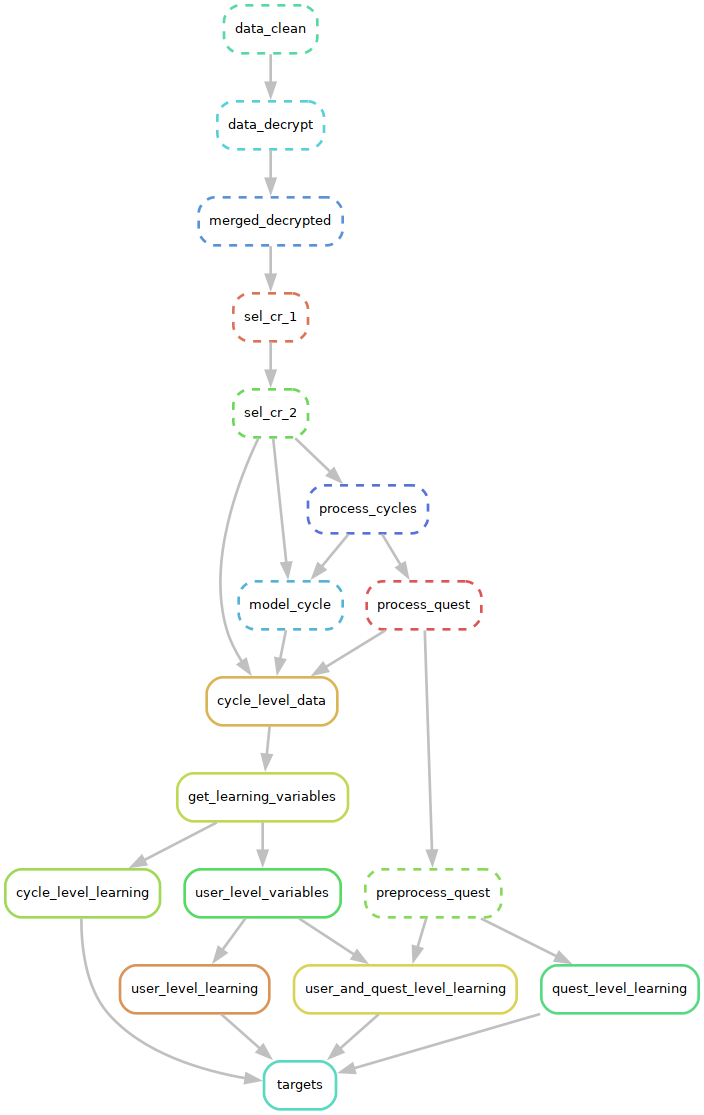
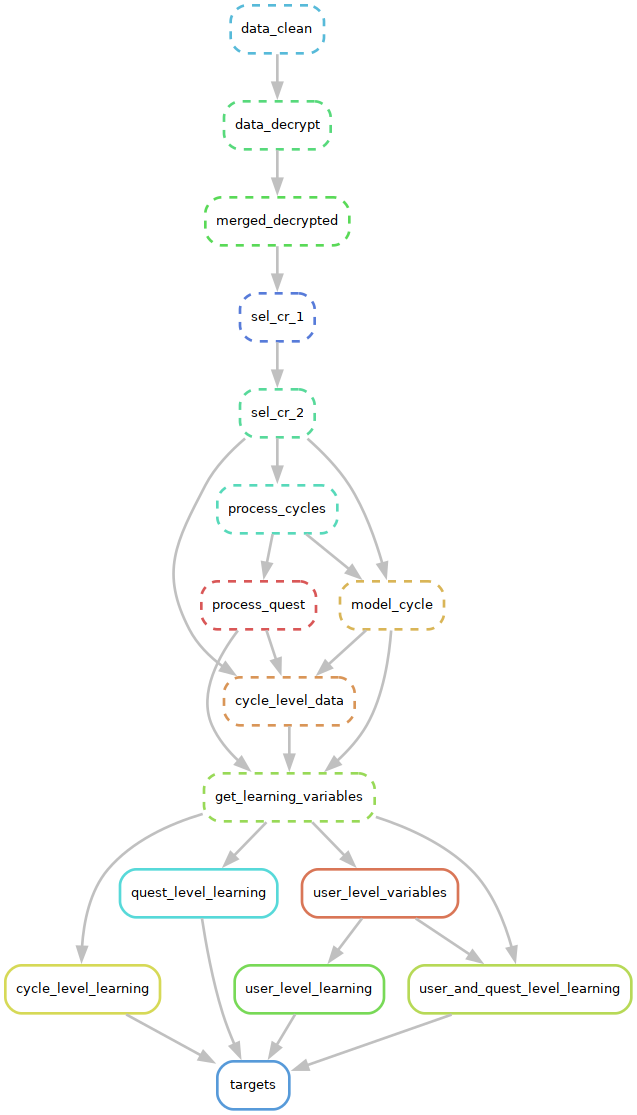
PCOS coding redone

Changed region(s): [[0.0, 0.0, 1.0, 1.0]]

diff --git a/code/learning_variables.py b/code/learning_variables.py
@@ -38,25 +38,29 @@ def the_variables(INPUT_TEMPS, INPUT_QUEST, MODEL_CYCLE, OUTPUT_TEMPS, OUTPUT_QU
 
     logger.info("================User Selection Started==================")
 
-    #1. Users with known PCOS values and temperature data
-    temperatures_pcos = temperatures[temperatures["PCOS"] != 2] 
-    counts = temperatures_pcos["User"].nunique()
-    logger.info(f"Total Users with Questionnaire and Temperature Data: {counts}")
+    #1. Total Users with Questionnaire and Temperature Data
+    temperatures_with_quest = temperatures[temperatures["PCOS"] != 3] 
+    counts = temperatures_with_quest["User"].nunique()
+    logger.info(f"Users with Questionnaire and Temperature Data: {counts}")
     
+    #2. Users with answer to Fertility Question
+    temperatures_pcos = temperatures_with_quest[temperatures_with_quest["PCOS"] != 2] 
+    counts = temperatures_pcos["User"].nunique()
+    logger.info(f"Users with answer to Fertility Question: {counts}")
 
-    #2. Users in model cycle
+    #3. Users in model cycle
     model_users = Frames(MODEL_CYCLE).model_users()
     non_model = temperatures_pcos[~(temperatures_pcos["User"].isin(model_users))]
     counts = non_model["User"].nunique()
     logger.info(f"Non-model Users: {counts}")
     
-    #3. Users with more than 3 Cycles
+    #4. Users with more than 3 Cycles
     more_than_3 = non_model.groupby("User").count()[non_model.groupby("User").count()["Cycle"] > 2]
     more_than_3_list = more_than_3.index.to_list()
     more_than_3_df = non_model[non_model["User"].isin(more_than_3_list)]
     counts = more_than_3_df["User"].nunique()
     logger.info(f"Users with 3 and more cycles: {counts}")
-    counts = more_than_3_df["PCOS"].value_counts()
+    counts = dict(more_than_3_df["PCOS"].value_counts())
     logger.info(f"Cycles Distribution: {counts}")
 
     # dep_and_indep = final_df[[
@@ -65,13 +69,13 @@ def the_variables(INPUT_TEMPS, INPUT_QUEST, MODEL_CYCLE, OUTPUT_TEMPS, OUTPUT_QU
     # "nadir_valid", "peak_valid", "path_length", "warp_degree", "Curve_Length", "Data_Length", "Curve_by_Data", "PCOS"    
     # ]]
 
-    #4. Questionnaire Missingness (first get users with more thna 3 cycles from temps, then get users with less than 3 missing questionnaire varibles 
+    #5. Questionnaire Missingness (first get users with more thna 3 cycles from temps, then get users with less than 3 missing questionnaire varibles 
     # from "BMI", "Regular Smoker", "Age menstration started", "Period in last 3 months", "Regular periods", "Heavy periods", "Painful periods) and preprocessing
 
     df_quest = quest[quest["User ID"].isin(more_than_3_list)][["User ID", "BMI", "Regular Smoker", "Age menstration started", "Period in last 3 months", "Regular periods", \
                                                        "Heavy periods", "Painful periods", "PCOS"]].reset_index(drop = True)
     #missingness in the questionnaire variables
-    df_missingness = preprocess.get_missing(df_quest)
+    df_missingness = preprocess.get_missing(df_quest).reset_index(drop = True)
     
     #preprocessing and defining categories
     df_preprocessed = preprocess.pre_processing_redone(df_missingness)
@@ -81,8 +85,10 @@ def the_variables(INPUT_TEMPS, INPUT_QUEST, MODEL_CYCLE, OUTPUT_TEMPS, OUTPUT_QU
     df_init = df_preprocessed[["User ID", "BMI", "Age menstration started", "PCOS"]]
     final_quest_ml = pd.concat([df_init, dummies], axis = 1)
     final_quest_ml.rename({"User ID":"User"}, axis =1, inplace=True)
-    counts = quest["User"].nunique()
-    logger.info(f"Final users in questionnaire data: {counts}")
+    counts = final_quest_ml["User"].nunique()
+    logger.info(f"Users in questionnaire data after taking out missingness: {counts}")
+    user_counts = dict(final_quest_ml["PCOS"].value_counts())
+    logger.info(f"Final Users Distribution: {user_counts}")
 
     #list cleaned from questionnaire
     quest_list = final_quest_ml["User"].to_list()
@@ -90,16 +96,21 @@ def the_variables(INPUT_TEMPS, INPUT_QUEST, MODEL_CYCLE, OUTPUT_TEMPS, OUTPUT_QU
     # Obtain the questionnare list from the temperature df
     final_temp_df = more_than_3_df[more_than_3_df["User"].isin(quest_list)]
     counts = final_temp_df["User"].nunique()
-    logger.info(f"Final users in temperatures data: {counts}")
-    counts = final_temp_df["PCOS"].value_counts()
-    logger.info(f"Final Cycles Distribution: {counts}")
 
+    logger.info(f"Final users in temperatures data: {counts}")
+    counts = dict(final_temp_df["PCOS"].value_counts())
+    logger.info(f"Final Cycles Distribution: {counts}")
+    logger.info("================User Finished==================")
+
+    #select the independent and non-indepent variables
     dep_and_indep = final_temp_df[[
-    "Data_Length", "Next Cycle Difference", "Cycle Completeness", "max_of_2_periods", "max_pos_of_2_periods", 
-    "max_of_3_periods", "max_pos_of_3_periods", "Change Point Day", "Change Point Mean Diff", "Standard_distance",
-    "path_length_with_diff", "Standard_nadir_day", "Standard_peak_temp", "Standard_nadir_temp_actual",
-    "Standard_peak_temp_actual", "Standard_nadir_to_peak", "Standard_low_to_high_temp", "cost_with_diff", "PCOS"
-    ]] #select the independent and non-indepent variables
+    "User", "Cycle", "Standard_smooth_temps", "Data_Length", "Next Cycle Difference", "Cycle Completeness", "Curve_by_Data", 
+    "max_of_2_periods", "max_pos_of_2_periods", "max_of_3_periods", "max_pos_of_3_periods", 
+    "Change Point Day", "Change Point Mean Diff", 
+    "cost_with_diff", "path_length_with_diff", "Standard_nadir_day", "Standard_peak_day", 
+    "Standard_nadir_temp_actual", "Standard_peak_temp_actual", "Standard_nadir_to_peak", "Standard_low_to_high_temp", 
+    "PCOS"
+    ]]
 
     #Maintain the "Minimum of 3 Cycles per User" rule
     # less_3 = list(dep_and_indep.groupby("User").count()[dep_and_indep.groupby("User").count()["Cycle"] < 3].index)
@@ -112,8 +123,13 @@ def the_variables(INPUT_TEMPS, INPUT_QUEST, MODEL_CYCLE, OUTPUT_TEMPS, OUTPUT_QU
 
     #save the final result
     df_3_cycles.to_csv(OUTPUT_TEMPS, index=False)
-    final_quest_mlto_csv(OUTPUT_QUEST, index=False)
+    logger.info(f"Cycle Level Variables: {OUTPUT_TEMPS}")
+
+    final_quest_ml.to_csv(OUTPUT_QUEST, index=False)
+    logger.info(f"Questionnaire Variables: {OUTPUT_QUEST}")
+
+
 
 if __name__ == "__main__":
     args = parser.parse_args()
-    the_variables(args.input_temps, args.input_quest, args.model_cycle, args.output_file, args.output_quest)
+    the_variables(args.input_temps, args.input_quest, args.model_cycle, args.output_temps, args.output_quest)

diff --git a/variables_learning.py b/variables_learning.py
@@ -7,7 +7,7 @@ class Learning:
         ############################################################################################
     ### For Rule 10 (get_learning_variables) - 
     ### 1. The first input is the file containing the preprocessed data - the output of 
-    ### cycle_level_data (rule 9)
+    ### cycle_level_data (rule 9) i.e. features_dtw_SS.csv
     ### 2. The second input is the cleaned questionnaire data - from Rule 7 (process_questionnaire) i.e df_questionnaire_final.csv
     ### 3. The third input is the output of the model cycle from rule 8 (model_cycle) i.e model_cycle.json                                                                  
     ### 4. The first output file is to save the cycle-level variables
@@ -94,7 +94,7 @@ class Learning:
     }
 
     #rule 11 data
-    cycle_level_learning_input_file = get_learning_variables_output_file
+    cycle_level_learning_input_file = get_learning_variables_output_file_temps
     cycle_level_learning_output_folder = cycle_level_learning_results
     #cycle_level_learning_output_log = cycle_level_learning_output_folder + "log"
     cycle_level_learning_number_of_k_splits = cycle_level_learning_number_of_k_splits
@@ -105,7 +105,7 @@ class Learning:
     }
 
     #rule 12 data
-    user_level_variables_input_file = get_learning_variables_output_file
+    user_level_variables_input_file = get_learning_variables_output_file_temps
     user_level_variables_output = user_level_variables_output
     user_level_variables = {"input_file":user_level_variables_input_file,
                                     "output_file":user_level_variables_output}
@@ -121,18 +121,18 @@ class Learning:
     }
 
     #rule 14 data
-    quest_preprocess_quest = variables.process_quest["output_file_2"]
-    quest_preprocess_model = variables.model_cycle_data["output_file"]
-    quest_preprocess_temps = variables.cycle_level_data["output_file"]
-    quest_preprocessed_output = quest_preprocessed_output
-    preprocess_quest = {"input_quest":quest_preprocess_quest,
-                        "model_cycle":quest_preprocess_model,
-                        "input_temps":quest_preprocess_temps,
-                        "output_file":quest_preprocessed_output
-    }
+    # quest_preprocess_quest = variables.process_quest["output_file_2"]
+    # quest_preprocess_model = variables.model_cycle_data["output_file"]
+    # quest_preprocess_temps = variables.cycle_level_data["output_file"]
+    # quest_preprocessed_output = quest_preprocessed_output
+    # preprocess_quest = {"input_quest":quest_preprocess_quest,
+    #                     "model_cycle":quest_preprocess_model,
+    #                     "input_temps":quest_preprocess_temps,
+    #                     "output_file":quest_preprocessed_output
+    # }
 
     #rule 15 data
-    quest_level_learning_input_file = quest_preprocessed_output
+    quest_level_learning_input_file = get_learning_variables_output_quest
     quest_level_learning_output_folder = quest_level_learning_results
     quest_level_learning_number_of_k_splits = quest_level_learning_number_of_k_splits
     quest_level_learning = {"input_file":quest_level_learning_input_file,
@@ -143,7 +143,7 @@ class Learning:
 
     #rule 16 data
     user_and_quest_level_learning_input_file_1 = user_level_variables_output
-    user_and_quest_level_learning_input_file_2 = quest_preprocessed_output
+    user_and_quest_level_learning_input_file_2 = get_learning_variables_output_quest
     user_and_quest_level_learning_output_folder = user_and_quest_level_learning_results
     user_and_quest_level_learning_number_of_k_splits = user_and_quest_level_learning_number_of_k_splits
     user_and_quest_level_learning = {"input_file_1":user_and_quest_level_learning_input_file_1,

diff --git a/code/classes/classes.py b/code/classes/classes.py
@@ -11,12 +11,23 @@ class Frames:
         
     def recode_pcos(self):
         the_df = self.df
-        for i in range(len(the_df)):
-            if the_df.iloc[i, 678] == "Polycystic Ovarian Syndrome (PCOS)":
-                the_df.iloc[i, 678] = 1
 
+        for i in range(len(the_df)):
+            if (the_df.loc[i, "PCOS"] == "Polycystic Ovarian Syndrome (PCOS)"): # One person indicated PCOS but didnt answer
+                the_df.loc[i, "PCOS"] = 1                                     # "Yes" to infertility
+
+            elif (the_df.loc[i, "Have you ever gone to a doctor because you thought you were infertile?"] == "Yes") \
+            & (the_df.loc[i, "PCOS"] != "Polycystic Ovarian Syndrome (PCOS)"):
+                the_df.loc[i, "PCOS"] = 0 # Those that answered yes to infertility but do not have PCOS
+            
+            elif (the_df.loc[i, "Have you ever gone to a doctor because you thought you were infertile?"] == "No"):
+                the_df.loc[i, "PCOS"] = 0 # Some answered "No" to infertility in the "Yes" column
+                
+            elif (the_df.loc[i, "Unnamed: 676"] == "No"):
+                the_df.loc[i, "PCOS"] = 0 # Those that indicated "No to infertility"
+                
             else:
-                the_df.iloc[i, 678] = 0
+                the_df.loc[i, "PCOS"] = 2 # Those with no response to infertility question
         return the_df
 
     def the_cycles_temp_dates_duration(self):
@@ -93,6 +104,6 @@ class Frames:
         MODEL_LOC_SPLIT = MODEL_CYCLE.split("/")
         MODEL_LOC = "/".join(MODEL_LOC_SPLIT[0:-1])
         MODEL_CYCLES_FILE = os.path.join(MODEL_LOC,"individual_averages.json")
-        MODEL_CYCLES = tools.load_model_cycle(MODEL_CYCLES_FILE)
-        MODEL_USERS = [model[i]["User"] for i, j in enumerate(model)]
-        return (MODEL_CYCLE)
+        THE_MODEL_CYCLES = tools.load_model_cycle(MODEL_CYCLES_FILE)
+        MODEL_USERS = [ THE_MODEL_CYCLES[i]["User"] for i, j in enumerate(THE_MODEL_CYCLES)]
+        return (MODEL_USERS)

diff --git a/code/process_quest.py b/code/process_quest.py
@@ -99,7 +99,7 @@ def process_quest(INPUT, INPUT_CYCLES, OUTPUT, CLEANED_QUEST):
 
     for i in range(len(temp_dates_duration_pcos)):
         if pd.isnull(temp_dates_duration_pcos['PCOS'][i]):
-            temp_dates_duration_pcos.loc[i,'PCOS'] = 2
+            temp_dates_duration_pcos.loc[i,'PCOS'] = 3
     
     #Get Complete cycles
     temp_dates_duration_pcos = tools.cycle_completeness(temp_dates_duration_pcos)

diff --git a/code/questionnaire_variables/preprocess_quest_tools.py b/code/questionnaire_variables/preprocess_quest_tools.py
@@ -19,7 +19,7 @@ def get_missing(df):
             pd.isnull(df_values.loc[i,j]):
                 count+=1
         df_values.loc[i,"Missing"] = count
-    df_values = df_values[df_values["Missing"] < 5] #taking out users with more than 3 missing values
+    df_values = df_values[df_values["Missing"] < 5] #taking out users with more than 5 missing values
     
     #for the columns
     # column_data = []
